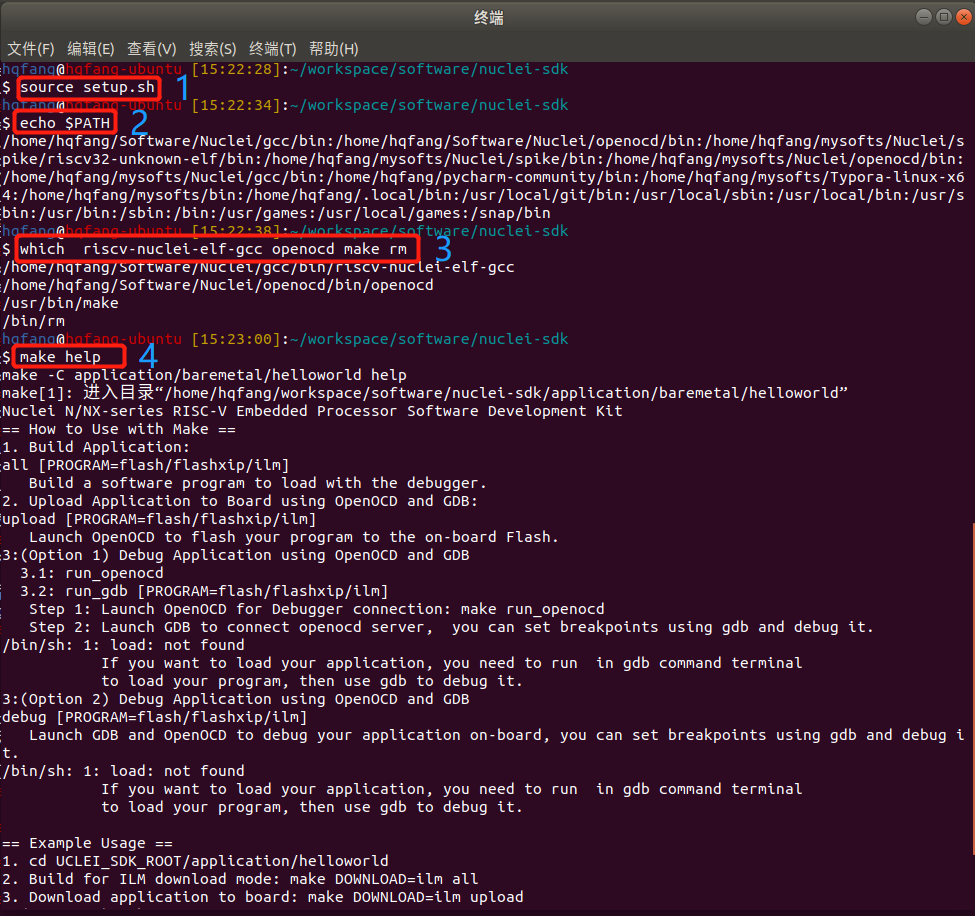
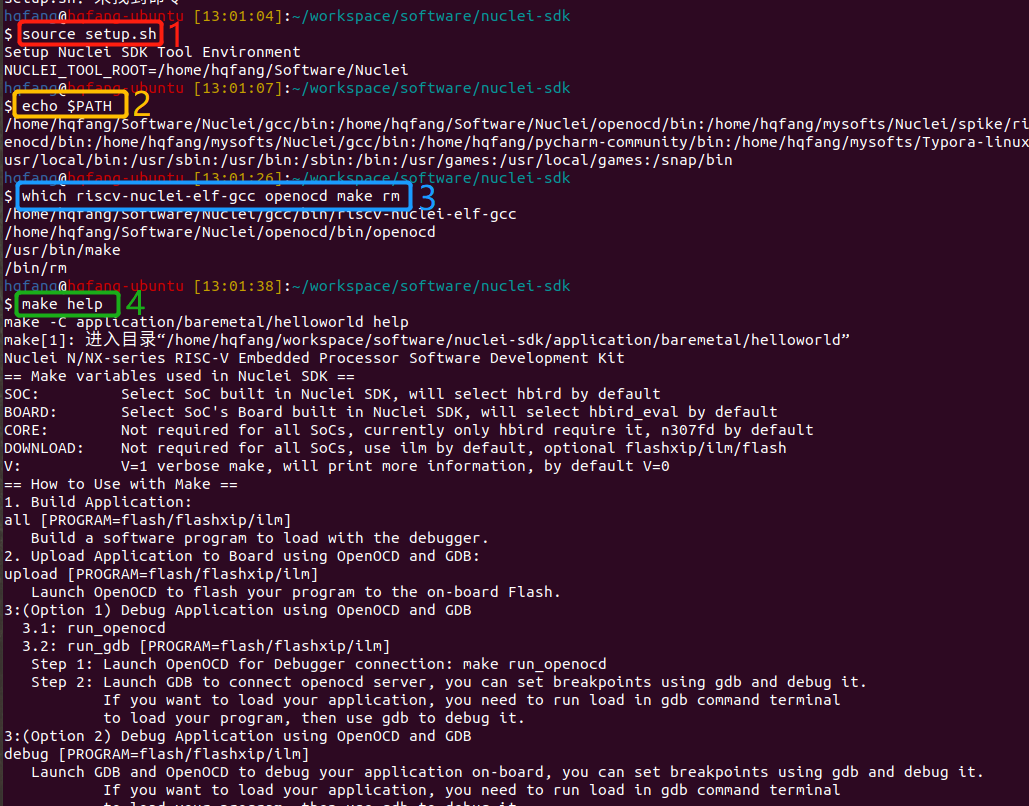
doc: update screenshots and add optimize for code size

diff --git a/doc/source/design/app.rst b/doc/source/design/app.rst
@@ -126,12 +126,61 @@ the CORE TIMER API including the Timer Interrupt and Timer Software Interrupt.
     MTimer SW IRQ handler 10
     MTimer msip and mtip interrupt test finish and pass
 
+.. _design_app_demo_eclic:
 
 demo_eclic
 ~~~~~~~~~~
 
 This `demo_eclic application`_ is used to demostrate how to use
 the ECLIC API and Interrupt.
+
+.. note::
+
+    In this application's Makefile, we provided comments in Makefile about optimize
+    for code size.
+
+    If you want to optimize this application for code size, you can set the ``COMMON_FLAGS``
+    variable to the following values, we recommend to use ``-Os -flto``.
+
+    .. list-table:: Code size optimization for demo_eclic on RV-STAR target
+       :widths: 60 20 20 20 20
+       :header-rows: 1
+
+       * - COMMON_FLAGS
+         - text(bytes)
+         - data(bytes)
+         - bss(bytes)
+         - total(bytes)
+       * -
+         - 13724
+         - 112
+         - 2266
+         - 16102
+       * - -flto
+         - 13598
+         - 112
+         - 2266
+         - 15976
+       * - -Os
+         - 9690
+         - 112
+         - 2264
+         - 12066
+       * - -Os -flto
+         - 9132
+         - 112
+         - 2264
+         - 11508
+       * - -Os -msave-restore  -fno-unroll-loops
+         - 9714
+         - 112
+         - 2264
+         - 12090
+       * - -Os -msave-restore  -fno-unroll-loops -flto
+         - 9204
+         - 112
+         - 2264
+         - 11580
 
 * The timer interrupt and timer software interrupt are used
 * The timer interrupt is registered as non-vector interrupt

diff --git a/doc/source/develop/appdev.rst b/doc/source/develop/appdev.rst
@@ -91,6 +91,28 @@ If you want to add extra build options, you can use these makefile variables:
 * :ref:`develop_buildsystem_var_ldlibs`: This will add extra libraries need to be linked.
 * :ref:`develop_buildsystem_var_libdirs`: This will add extra library directories to be searched by linker.
 
+.. _develop_appdev_optimize_for_codesize:
+
+Optimize For Code Size
+----------------------
+
+If you want to optimize your application for code size, you set ``COMMON_FLAGS``
+in your application Makefile like this:
+
+.. code-block:: makefile
+
+    COMMON_FLAGS := -Os
+
+If you want to optimize code size even more, you use this link time optimization(LTO) as below:
+
+.. code-block:: makefile
+
+    COMMON_FLAGS := -Os -flto
+
+see :ref:`design_app_demo_eclic` for example usage of optimize for code size.
+
+For more details about gcc optimization, please refer to `Options That Control Optimization in GCC`_.
+
 .. _develop_appdev_linkscript:
 
 Change Link Script
@@ -116,3 +138,6 @@ Set Local Make Options For Your Application
 
 If you want to change the application level Make options,
 you can add the :ref:`develop_buildsystem_makefile_local`.
+
+
+.. _Options That Control Optimization in GCC: https://gcc.gnu.org/onlinedocs/gcc-9.2.0/gcc/Optimize-Options.html#Optimize-Options

diff --git a/doc/source/changelog.rst b/doc/source/changelog.rst
@@ -3,6 +3,21 @@
 Changelog
 =========
 
+V0.2.0-alpha.xx
+---------------
+
+Release tag name is not yet ready, just record changelog for it.
+
+* Build System
+
+  - Add extra linker options ``-u _isatty -u _write -u _sbrk -u _read -u _close -u _fstat -u _lseek``
+    in Makefile.conf to make sure if you pass extra ``-flto`` compile option, link phase will not fail
+
+* Documentation
+
+  - Add documentation about how to optimize for code size in application development, using ``demo_eclic``
+    as example.
+
 V0.2.0-alpha
 ------------
 
